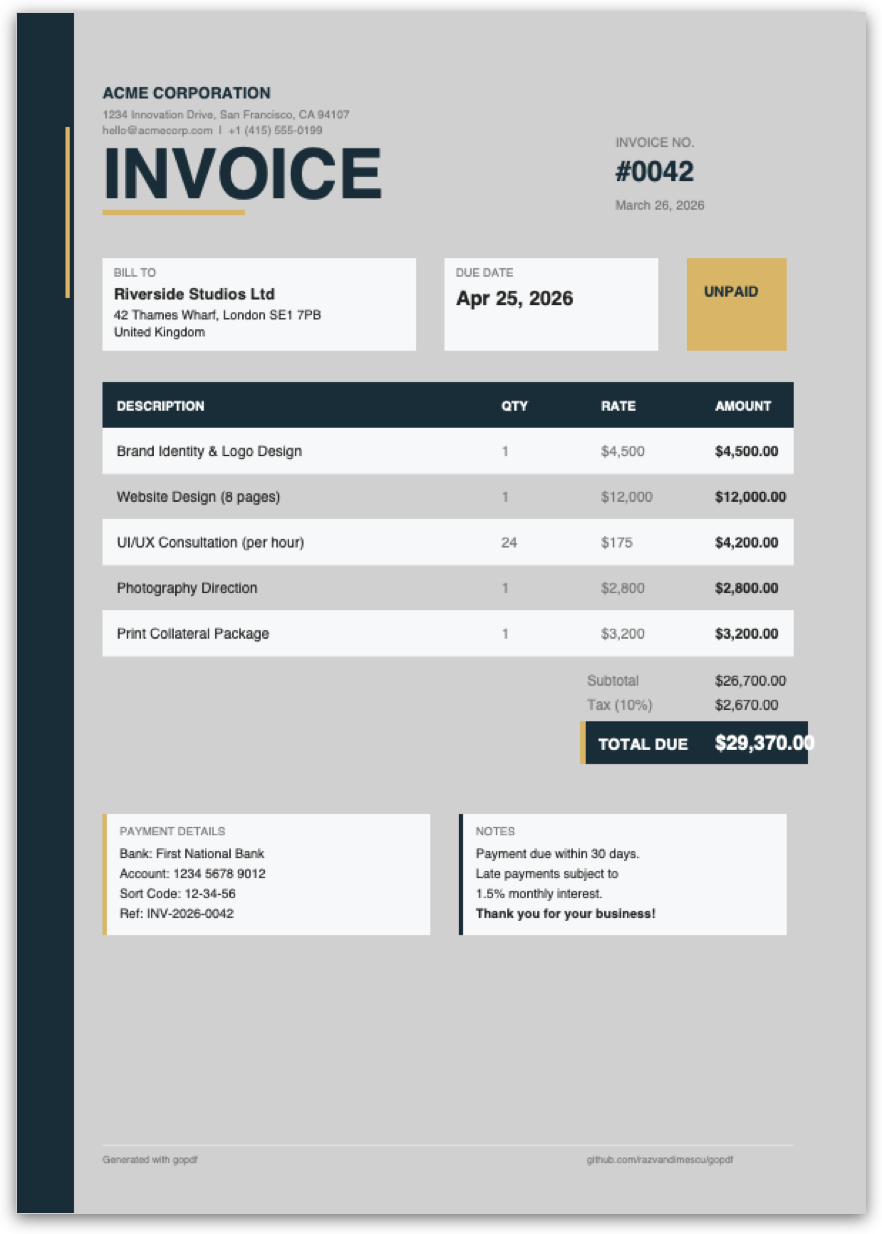
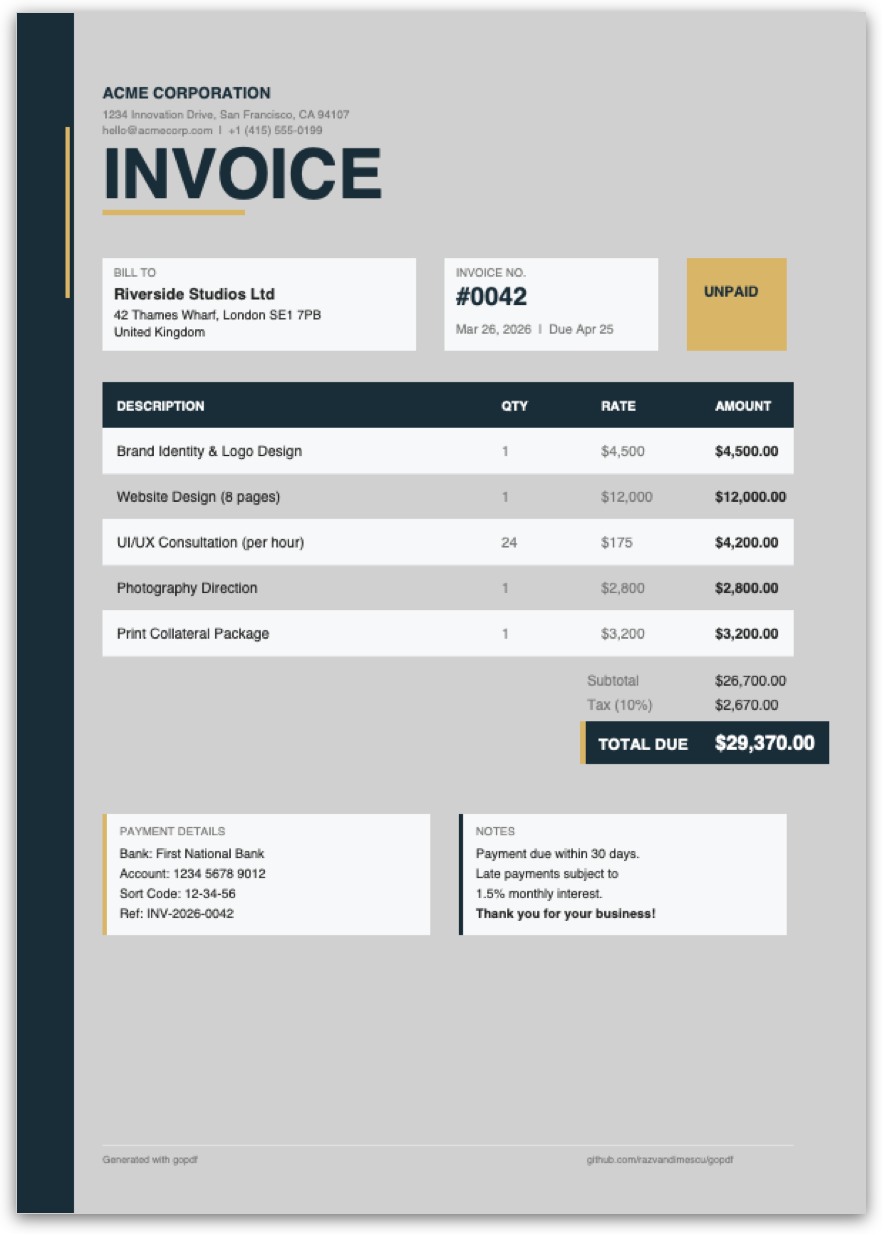
Move invoice no. to meta card row, fix total bar padding
- Invoice number + date now in a card aligned with Bill To and UNPAID
- Removed floating invoice number from header area
- Widened total bar further to prevent amount clipping

Changed region(s): [[0.5204, 0.2156, 0.7041, 0.2771], [0.7041, 0.0924, 0.7959, 0.1848], [0.9184, 0.5851, 0.949, 0.6159]]

diff --git a/cmd/sample/main.go b/cmd/sample/main.go
@@ -75,23 +75,12 @@ func createSampleInvoice() ([]byte, error) {
 	// Gold bar under title.
 	p.FillRect(marginL+10, titleY-12, 100, 4, gold[0], gold[1], gold[2])
 
-	// Invoice number — right side, large.
-	p.SetColor(medText[0], medText[1], medText[2])
-	p.SetFont("Helvetica", 9)
-	p.DrawText(420, titleY+36, "INVOICE NO.")
-	p.SetColor(teal[0], teal[1], teal[2])
-	p.SetFont("Helvetica-Bold", 20)
-	p.DrawText(420, titleY+12, "#0042")
-
-	p.SetColor(medText[0], medText[1], medText[2])
-	p.SetFont("Helvetica", 9)
-	p.DrawText(420, titleY-8, "March 26, 2026")
-
 	// ─── META CARDS ─────────────────────────────────────────────────
 	metaY := titleY - 55
+	cardH := 65.0
 
-	// Bill To card — light background.
-	p.FillRect(marginL+10, metaY-52, 220, 65, lightBg[0], lightBg[1], lightBg[2])
+	// Bill To card.
+	p.FillRect(marginL+10, metaY-52, 220, cardH, lightBg[0], lightBg[1], lightBg[2])
 	p.SetColor(medText[0], medText[1], medText[2])
 	p.SetFont("Helvetica", 8)
 	p.DrawText(marginL+18, metaY, "BILL TO")
@@ -102,17 +91,20 @@ func createSampleInvoice() ([]byte, error) {
 	p.DrawText(marginL+18, metaY-30, "42 Thames Wharf, London SE1 7PB")
 	p.DrawText(marginL+18, metaY-42, "United Kingdom")
 
-	// Due date card.
-	p.FillRect(marginL+250, metaY-52, 150, 65, lightBg[0], lightBg[1], lightBg[2])
+	// Invoice no + date card.
+	p.FillRect(marginL+250, metaY-52, 150, cardH, lightBg[0], lightBg[1], lightBg[2])
 	p.SetColor(medText[0], medText[1], medText[2])
 	p.SetFont("Helvetica", 8)
-	p.DrawText(marginL+258, metaY, "DUE DATE")
-	p.SetColor(darkText[0], darkText[1], darkText[2])
-	p.SetFont("Helvetica-Bold", 14)
-	p.DrawText(marginL+258, metaY-20, "Apr 25, 2026")
+	p.DrawText(marginL+258, metaY, "INVOICE NO.")
+	p.SetColor(teal[0], teal[1], teal[2])
+	p.SetFont("Helvetica-Bold", 18)
+	p.DrawText(marginL+258, metaY-20, "#0042")
+	p.SetColor(medText[0], medText[1], medText[2])
+	p.SetFont("Helvetica", 9)
+	p.DrawText(marginL+258, metaY-40, "Mar 26, 2026  |  Due Apr 25")
 
 	// Status badge.
-	p.FillRect(marginL+420, metaY-52, 70, 65, gold[0], gold[1], gold[2])
+	p.FillRect(marginL+420, metaY-52, 70, cardH, gold[0], gold[1], gold[2])
 	p.SetColor(teal[0], teal[1], teal[2])
 	p.SetFont("Helvetica-Bold", 10)
 	p.DrawText(marginL+432, metaY-14, "UNPAID")
@@ -187,7 +179,7 @@ func createSampleInvoice() ([]byte, error) {
 
 	// Total bar.
 	totalBarY := totalsY - 60
-	p.FillRect(totalsX-5, totalBarY, totalsW+25, 30, teal[0], teal[1], teal[2])
+	p.FillRect(totalsX-5, totalBarY, totalsW+40, 30, teal[0], teal[1], teal[2])
 	// Gold accent on left edge of total bar.
 	p.FillRect(totalsX-5, totalBarY, 4, 30, gold[0], gold[1], gold[2])
 	p.SetColor(1, 1, 1)
